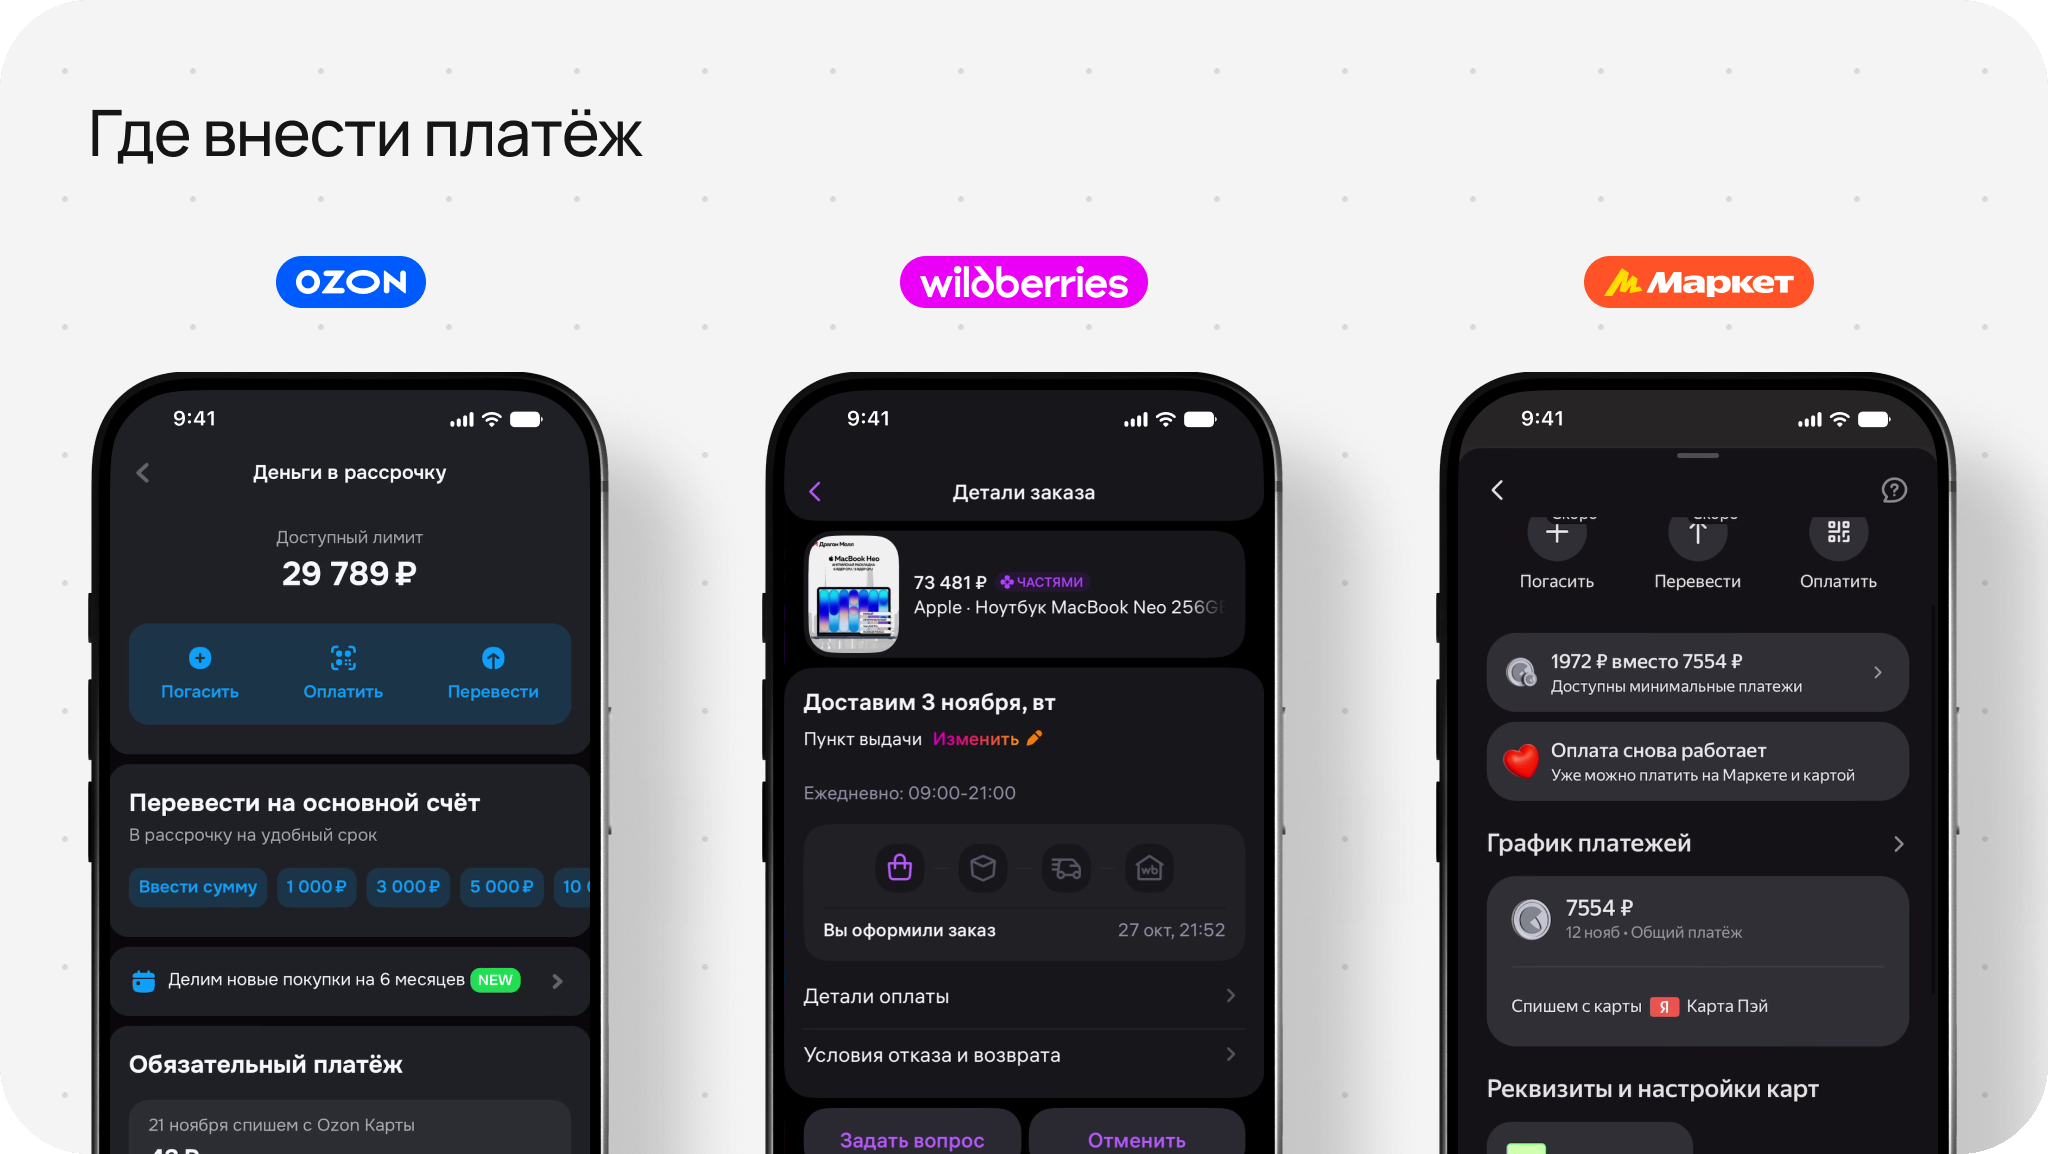
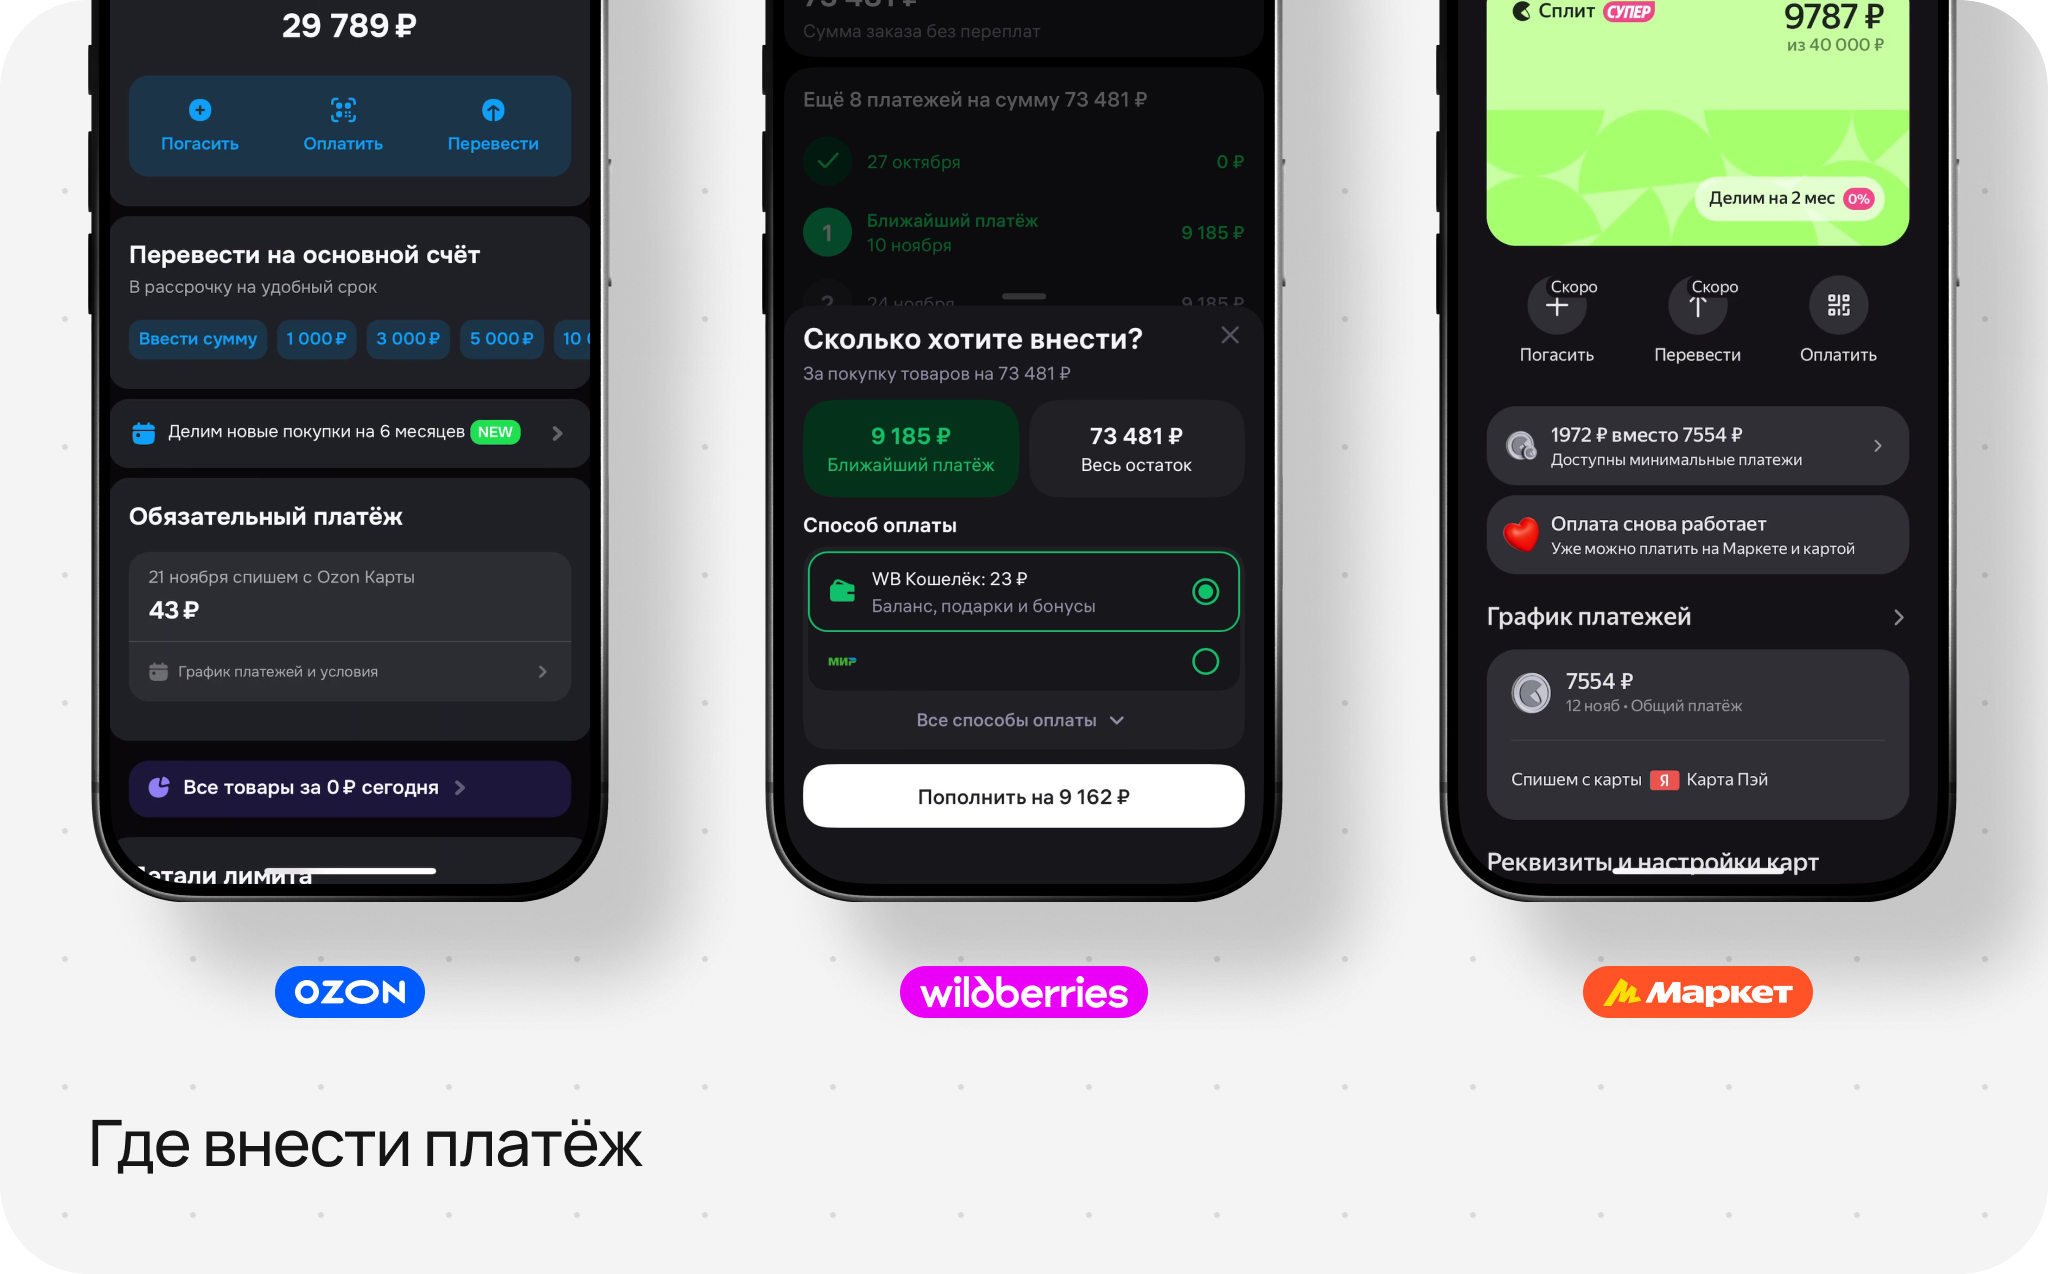
Статья: номера этапов висят слева за колонкой серым (заголовок на одной линии с текстом, Figma 801:11777); новая картинка «Где внести платёж» (773:10721)
Claude-Session: https://claude.ai/code/session_01BBwQy3shMoLzDP97ZsKZNh

diff --git a/CLAUDE.md b/CLAUDE.md
@@ -46,7 +46,7 @@
 - Adaptive-токены пересчитываются из переменных Figma: обновить `scripts/figma-vars/*.json` и запустить `node scripts/adaptive-tokens.mjs`.
 
 ## Статья
-- `/blog/marketplaces-installments` (`src/pages/blog/*`, `src/components/article/*`): секции чередуют surface/primary и surface/tertiary, иллюстрации — экспорт кадров макета 2x (`src/assets/article/img/`, углы прозрачные — скругление в самой картинке, без CSS-обрезки) → AVIF/WebP/PNG, на мобильном в масштабе 0.6 с горизонтальной прокруткой; «Норма» — `Note.astro`; «Итог» — настоящая `<table>`; на мобильном плашка на всю ширину экрана, первая колонка залипает, площадки листаются под неё.
+- `/blog/marketplaces-installments` (`src/pages/blog/*`, `src/components/article/*`): секции чередуют surface/primary и surface/tertiary, иллюстрации — экспорт кадров макета 2x (`src/assets/article/img/`, углы прозрачные — скругление в самой картинке, без CSS-обрезки) → AVIF/WebP/PNG, на мобильном в масштабе 0.6 с горизонтальной прокруткой; «Норма» — `Note.astro`; «Итог» — настоящая `<table>`; заголовки этапов пронумерованы (`.art-step`, CSS-счётчик, Figma `801:11777`): номер text/secondary-inversion висит слева за колонкой (8 px), заголовок на одной линии с текстом, на мобильном номер — в строке; списки в тексте — `ul`/`ol` внутри `.prose`; на мобильном плашка на всю ширину экрана, первая колонка залипает, площадки листаются под неё.
 - Навигация (`ArticleNav.astro` + `src/scripts/article-nav.ts`): кнопка внизу по центру (24 px от низа), подпись — текущий раздел, в оглавлении он подсвечен; видна всё время между первым экраном и оффером «Заполнить бриф», на первом экране, оффере и в футере спрятана; оверлей — градиент static/black 40% снизу → прозрачный вверху (размытие убрали по просьбе); панель вырастает из кнопки, иконка строк превращается в крестик; Esc, клик по оверлею, «Закрыть», пункт — плавный нативный скролл.
 - Шапка (`ArticleHead.astro` + `src/scripts/article-head.ts`, Figma `746:12778`): крошки «Главная / название» (`Crumbs.astro`, те же, что в первом экране) на полосе во всю ширину, desktop 84; на первом экране статьи не показывается совсем, ниже — выезжает при скролле вверх и уезжает при скролле вниз (порог 12 px). Фон — прогрессивное стекло: 4 слоя `backdrop-filter` 2/4/8/16 px под масками (сверху сильнее, к низу сходит на нет) + белая дымка 63 % → 0; `-webkit-backdrop-filter` — в атрибуте `style` (из CSS сборка его выбрасывает).
 - Переход между страницами — View Transitions (`@view-transition` в `base.css`): заголовок карточки статьи перетекает в заголовок статьи (`data-vt-title`), остальное — fade + подъём; при reduced motion выключен.
